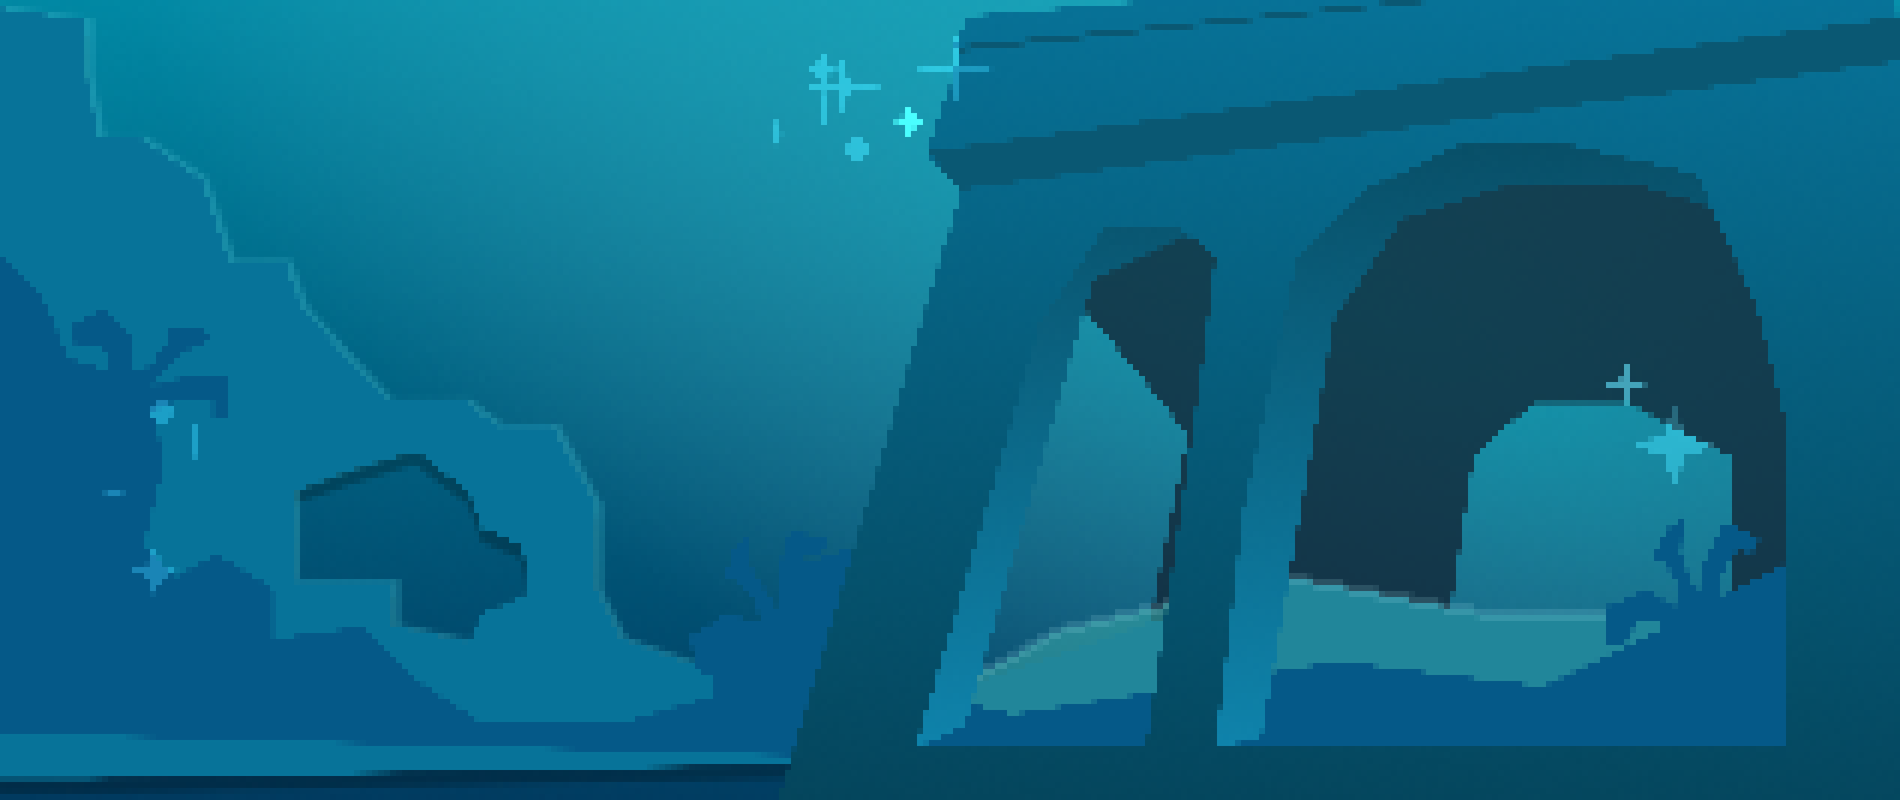
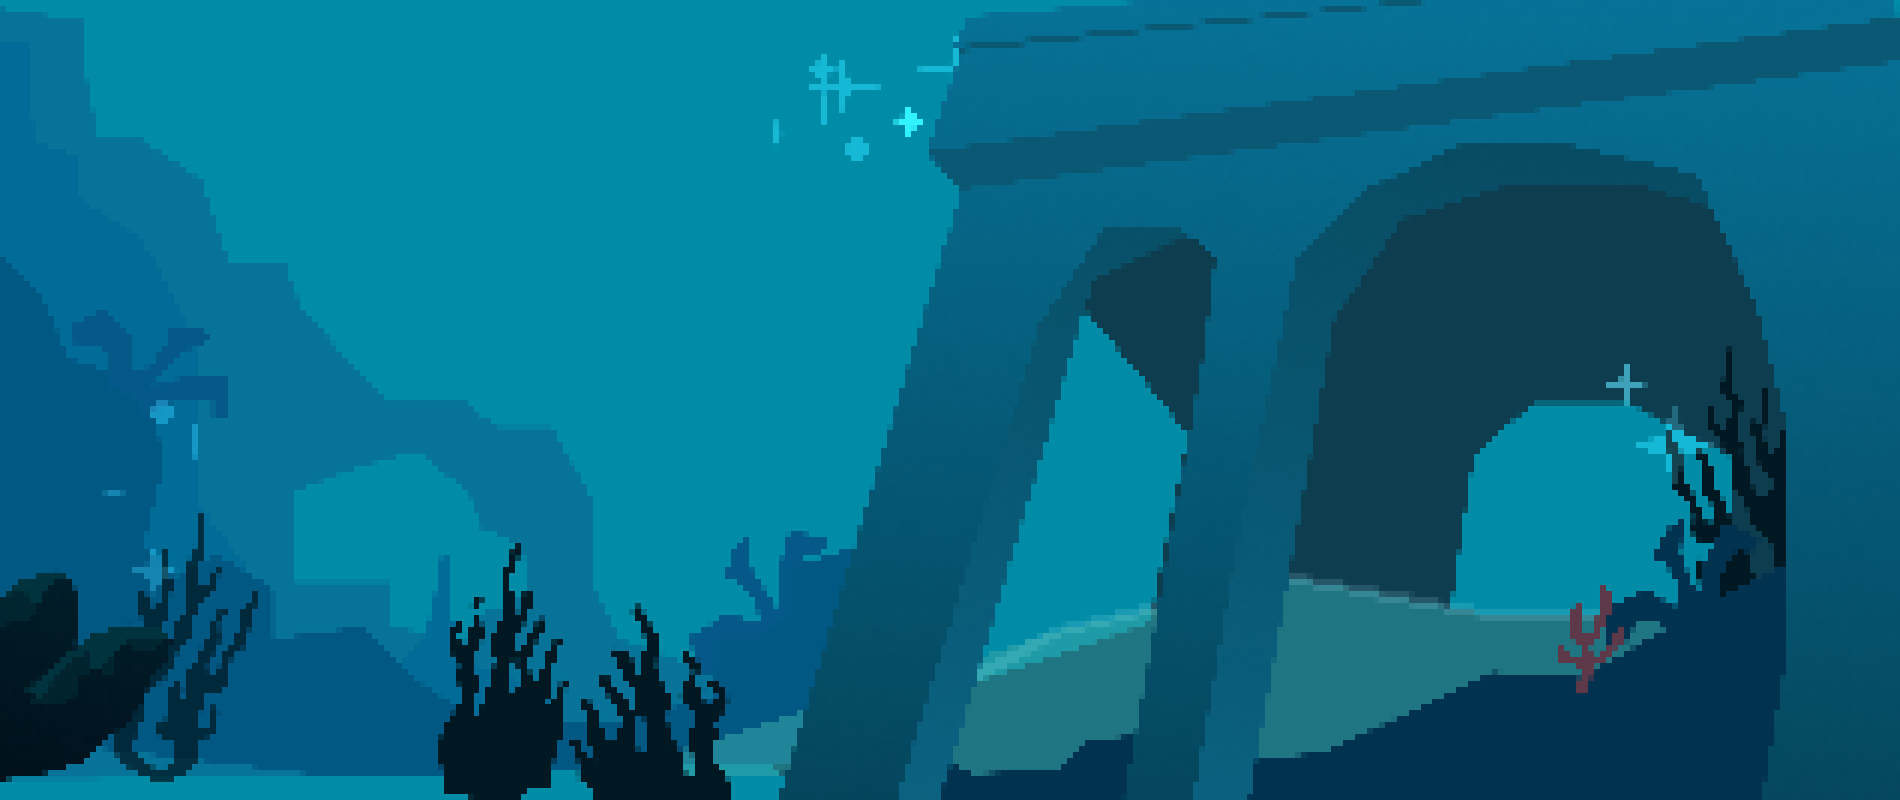
code

Changed region(s): [[0.0, 0.2812, 0.4658, 1.0], [0.4658, 0.4062, 0.9626, 1.0], [0.3726, 0.0, 0.59, 0.4375]]

diff --git a/sketch.js b/sketch.js
@@ -1,6 +1,4 @@
 // ============================================================
-// Week 6 Example 2 — Free Roam Top-Down with Boss Battle
-// ============================================================
 // The player moves freely around a world larger than the canvas.
 // A smooth-follow camera keeps the player centred.
 // Enemy waves are loaded from JSON and chase the player.
@@ -35,16 +33,33 @@ let moveSpeed = PLAYER_SPEED;
 const INVINCIBLE_FRAMES = 90; // ADDED — was referenced but never defined
 
 // ------------------------------------------------------------
-// PLAYER
-// Position is in world coordinates.
-// Starts near the bottom centre of the world.
+// FISH SPRITE CONFIGURATION
 // ------------------------------------------------------------
+const FISH_SPRITE = {
+  frameWidth: 0, // Calculated dynamically in setup() to avoid grid bleed
+  frameHeight: 0, // Calculated dynamically in setup()
+  numFrames: 2, // Each row contains 2 frames for the swim animation
+  animSpeed: 12, // Controls tail wag speed (lower = faster)
+  scale: 0.15, // Scale factor to map image size nicely to player.r (22px)
+
+  // Row mapping: row 0 is left, row 1 is right
+  rows: {
+    left: 1,
+    right: 0,
+  },
+};
+
 let player = {
   x: 15000,
   y: 3000,
   r: 22,
-  blobT: 0,
-  direction: { x: 0, y: -1 },
+
+  // Animation state variables
+  currentFrame: 0,
+  frameTimer: 0,
+  facing: "left", // Current look direction ("left" or "right")
+  isMoving: false, // Tracks whether player is currently moving to trigger animation
+
   shootTimer: 0,
   health: 5,
   maxHealth: 5,
@@ -83,7 +98,8 @@ let spike2Img;
 let spike3Img;
 let spike4Img;
 let fishareaBG;
-
+let fishareaOverlay;
+let fishSheet; //fish sprite sheet
 let fishArea;
 
 // ------------------------------------------------------------
@@ -169,6 +185,7 @@ function preload() {
   obstacleData = loadJSON("data/obstacles.json");
   tileData = loadJSON("data/map.json");
   fishArea = loadJSON("data/fisharea.json");
+  fishSheet = loadImage("assets/fish.png");
   seaweedImg = loadImage("assets/seaweed.png");
   sandImg = loadImage("assets/sand.png");
   sandrockImg = loadImage("assets/sandrock.png");
@@ -178,6 +195,7 @@ function preload() {
   spike3Img = loadImage("assets/spike3.png");
   spike4Img = loadImage("assets/spike4.png");
   fishareaBG = loadImage("assets/fishareaBG.png");
+  fishareaOverlay = loadImage("assets/fishareaoverlay.png");
 
   // Uncomment to load sounds:
   // shootSound     = loadSound("assets/sounds/shoot.wav");
@@ -202,6 +220,9 @@ function setup() {
   console.log("tileData=", tileData);
   console.log("obstacleData=", obstacleData);
 
+  FISH_SPRITE.frameWidth = fishSheet.width / 2;
+  FISH_SPRITE.frameHeight = fishSheet.height / 2;
+
   // Build obstacle objects from JSON
   for (let i = 0; i < obstacleData.obstacles.length; i++) {
     let o = obstacleData.obstacles[i];
@@ -225,7 +246,7 @@ function setup() {
   // Start camera so player is visible
   camX = player.x - width / 2;
   camY = player.y - height / 2;
-
+  imageMode(CORNER);
   // Uncomment to start music:
   // music.loop();
 }
@@ -259,6 +280,7 @@ function draw() {
   if (gameState === STATE_PLAY) {
     updateMoveSpeed();
     handleInput();
+    animateFish();
     applyBounce();
 
     // ADDED — tile physics: solid blockage, hazards, checkpoints
@@ -273,12 +295,37 @@ function draw() {
     drawTiles(tileData);
 
     drawPlayer();
+
+    // ADDED: draw fish area overlay on top of everything (world coordinates)
+    if (fishareaOverlay) {
+      const fishAreaOffsetX = TILE_SIZE * (tileData.mapWidth - 33);
+      const fishAreaOffsetY = TILE_SIZE * tileData.mapHeight;
+      image(fishareaOverlay, fishAreaOffsetX, fishAreaOffsetY, 1900, 800);
+    }
   }
 
   pop(); // restore screen coordinates
 
   drawMinimap();
 }
+
+// ------------------------------------------------------------
+// animateFish() — Cycles active frames when velocity is detected
+// ------------------------------------------------------------
+function animateFish() {
+  if (player.isMoving) {
+    player.frameTimer++;
+    if (player.frameTimer >= FISH_SPRITE.animSpeed) {
+      player.frameTimer = 0;
+      player.currentFrame = (player.currentFrame + 1) % FISH_SPRITE.numFrames;
+    }
+  } else {
+    // Revert to frame 0 when key inputs are idle
+    player.currentFrame = 0;
+    player.frameTimer = 0;
+  }
+}
+
 // ------------------------------------------------------------
 // updateCamera()
 // Smoothly moves the camera toward the player each frame.
@@ -331,7 +378,7 @@ function processJsonLayers(
   checkpointTiles,
   coinTiles,
   offsetX = 0,
-  offsetY = 0,
+  offsetY = 0
 ) {
   if (!jsonFile || !jsonFile.layers) return;
 
@@ -402,7 +449,7 @@ function buildTileCollision() {
     checkpointTiles,
     coinTiles,
     fishAreaOffsetX,
-    fishAreaOffsetY,
+    fishAreaOffsetY
   );
 
   function playerInWater() {
@@ -833,7 +880,9 @@ function drawTiles(jsonFile) {
     if (layer.name === "water") continue; // skip water, already drawn
     let spikePositions = null;
     if (jsonFile === tileData && layer.name === "spikes") {
-      spikePositions = new Set(layer.tiles.map((tile) => `${tile.x},${tile.y}`));
+      spikePositions = new Set(
+        layer.tiles.map((tile) => `${tile.x},${tile.y}`)
+      );
     }
     for (let i = 0; i < layer.tiles.length; i++) {
       let t = layer.tiles[i];
@@ -1105,25 +1154,35 @@ function drawBackground() {
 // Constrained to world boundaries.
 // Spacebar fires in the current facing direction.
 // ------------------------------------------------------------
+// ------------------------------------------------------------
+// handleInput() — Updates player position and tracking direction
+// ------------------------------------------------------------
 function handleInput() {
+  player.isMoving = false; // Reset velocity indicator by default
+
   if (keyIsDown(87)) {
+    // W - Up
     player.y -= moveSpeed;
-    player.direction = { x: 0, y: -1 };
+    player.isMoving = true;
   }
   if (keyIsDown(83)) {
+    // S - Down
     player.y += moveSpeed;
-    player.direction = { x: 0, y: 1 };
+    player.isMoving = true;
   }
   if (keyIsDown(65)) {
+    // A - Left
     player.x -= moveSpeed;
-    player.direction = { x: -1, y: 0 };
+    player.facing = "left"; // Point source coordinate calculation to Row 0
+    player.isMoving = true;
   }
   if (keyIsDown(68)) {
+    // D - Right
     player.x += moveSpeed;
-    player.direction = { x: 1, y: 0 };
+    player.facing = "right"; // Point source coordinate calculation to Row 1
+    player.isMoving = true;
   }
 
-  // Keep player inside world bounds
   player.x = constrain(player.x, player.r, WORLD_W - player.r);
   player.y = constrain(player.y, player.r, WORLD_H - player.r);
 }
@@ -1156,29 +1215,29 @@ function updateBullets() {
 function drawPlayer() {
   if (player.invincible && floor(player.invincibleTimer / 6) % 2 === 0) return;
 
+  let row = FISH_SPRITE.rows[player.facing];
+
+  let sx = player.currentFrame * FISH_SPRITE.frameWidth;
+  let sy = row * FISH_SPRITE.frameHeight;
+
+  let dw = FISH_SPRITE.frameWidth * FISH_SPRITE.scale;
+  let dh = FISH_SPRITE.frameHeight * FISH_SPRITE.scale;
+
   push();
-  fill(0, 200, 180);
-  noStroke();
-
-  beginShape();
-  let numPoints = 48;
-  for (let i = 0; i < numPoints; i++) {
-    let angle = (TWO_PI / numPoints) * i;
-    let noiseVal = noise(
-      cos(angle) * 0.8 + player.blobT,
-      sin(angle) * 0.8 + player.blobT,
-    );
-    let r = player.r + map(noiseVal, 0, 1, -6, 6);
-    vertex(player.x + cos(angle) * r, player.y + sin(angle) * r);
-  }
-  endShape(CLOSE);
-
-  fill(10);
-  ellipse(player.x - 7, player.y - 5, 7, 7);
-  ellipse(player.x + 7, player.y - 5, 7, 7);
-
-  pop();
-  player.blobT += 0.015;
+  // Temporarily switch to CENTER mode just for the player, then restore it
+  imageMode(CENTER);
+  image(
+    fishSheet,
+    player.x,
+    player.y,
+    dw,
+    dh,
+    sx,
+    sy,
+    FISH_SPRITE.frameWidth,
+    FISH_SPRITE.frameHeight
+  );
+  pop(); // Restores imageMode back to CORNER for everything else
 }
 
 // ------------------------------------------------------------